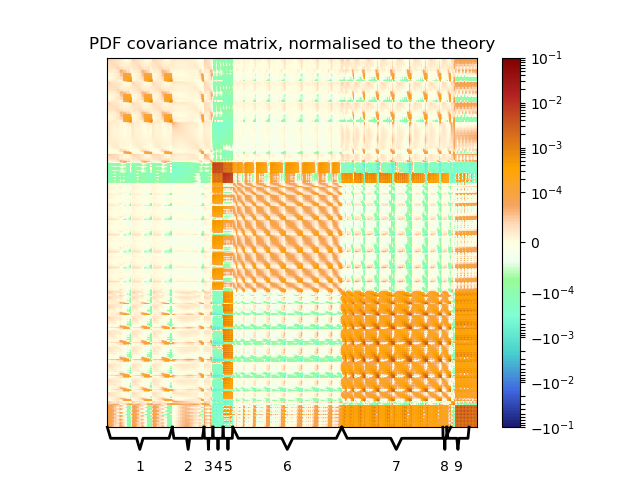
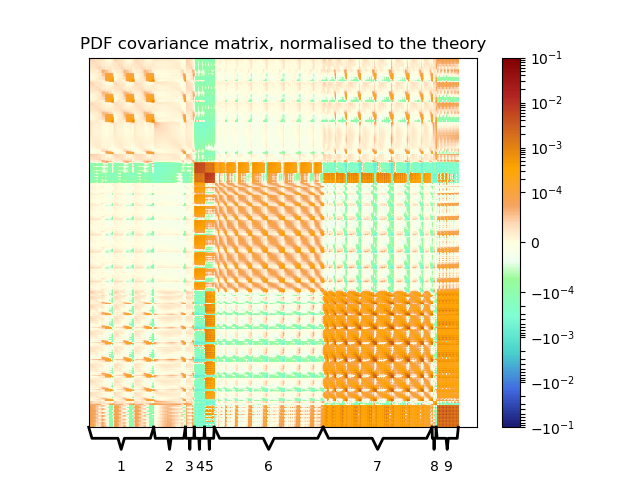
small changes

Changed region(s): [[0.125, 0.0625, 0.7812, 1.0], [0.4062, 0.9688, 0.4688, 1.0]]

diff --git a/output.py b/output.py
@@ -71,8 +71,8 @@ def show_dataset_brackets(ax):
         bracket(ax, text="5", pos=[442,0], scalex=37, scaley=3, linekw=dict(color="k", lw=2))
         bracket(ax, text="6", pos=[479,0], scalex=416, scaley=3, linekw=dict(color="k", lw=2))
         bracket(ax, text="7", pos=[895,0], scalex=416, scaley=3, linekw=dict(color="k", lw=2))
-        bracket(ax, text="8", pos=[1281,0], scalex=15, scaley=3, linekw=dict(color="k", lw=2))        
-        bracket(ax, text="9", pos=[1296,0], scalex=85, scaley=3, linekw=dict(color="k", lw=2))
+        bracket(ax, text="8", pos=[1311,0], scalex=15, scaley=3, linekw=dict(color="k", lw=2))        
+        bracket(ax, text="9", pos=[1326,0], scalex=85, scaley=3, linekw=dict(color="k", lw=2))
     else:
         print("Unable to show dataset brackets: root not recognised...")
 
@@ -381,11 +381,14 @@ plt.bar(x2, height=CHI2[1], width=0.15, color='orange', label='noshift')
 plt.bar(x3, height=CHI2[2], width=0.15, color='red', label='shift')
 
 if (root == "nuclear"):
+    plt.gca().set_xticks([0,1,2,3,4,5])
     plt.gca().set_xticklabels(('', "NTV-nu", "NTV-nb", "CH-nu", "CH-nb", "DYE605"))
 elif (root == "deuterium"):
-    plt.gca().set_xticklabels(('', 'BCDMSD','', 'NMCPD','', 'SLACD','', 'DYE886R')) # extra spaces because it works somehow...
+    plt.gca().set_xticks([0,1,2,3,4])
+    plt.gca().set_xticklabels(('', 'BCDMSD', 'NMCPD', 'SLACD', 'DYE886R')) # extra spaces because it works somehow...
 elif (root == "30"):
-    plt.gca().set_xticklabels(('','BCDMSC','NMCPD','SLACD', "NTV-nu", "NTV-nb", "CH-nu", "CH-nb",'DYE886R', "DYE605"))
+    plt.gca().set_xticks([0,1,2,3,4,5,6,7,8,9])
+    plt.gca().set_xticklabels(('','BCD','NMC','SLAC', "NTV-nu", "NTV-nb", "CH-nu", "CH-nb",'E886', "E605"))
 else:
     print("Error: root not recognised")
 
@@ -401,11 +404,14 @@ plt.bar(x2, height=CHI2t0[1], width=0.15, color='orange', label='noshift')
 plt.bar(x3, height=CHI2t0[2], width=0.15, color='red', label='shift')
 
 if (root == "nuclear"):
+    plt.gca().set_xticks([0,1,2,3,4,5])
     plt.gca().set_xticklabels(('', "NTV-nu", "NTV-nb", "CH-nu", "CH-nb", "DYE605"))
 elif (root == "deuterium"):
-    plt.gca().set_xticklabels(('', 'BCDMSD','', 'NMCPD','', 'SLACD','', 'DYE886R')) # extra spaces because it works somehow...
+    plt.gca().set_xticks([0,1,2,3,4])
+    plt.gca().set_xticklabels(('', 'BCDMSD', 'NMCPD', 'SLACD', 'DYE886R')) # extra spaces because it works somehow...
 elif (root == "30"):
-    plt.gca().set_xticklabels(('','BCDMSC','NMCPD','SLACD', "NTV-nu", "NTV-nb", "CH-nu", "CH-nb",'DUE886R', "DYE605"))
+    plt.gca().set_xticks([0,1,2,3,4,5,6,7,8,9])
+    plt.gca().set_xticklabels(('','BCD','NMC','SLAC', "NTV-nu", "NTV-nb", "CH-nu", "CH-nb",'E886', "E605"))
 else:
     print("Error: root not recognised")
 
